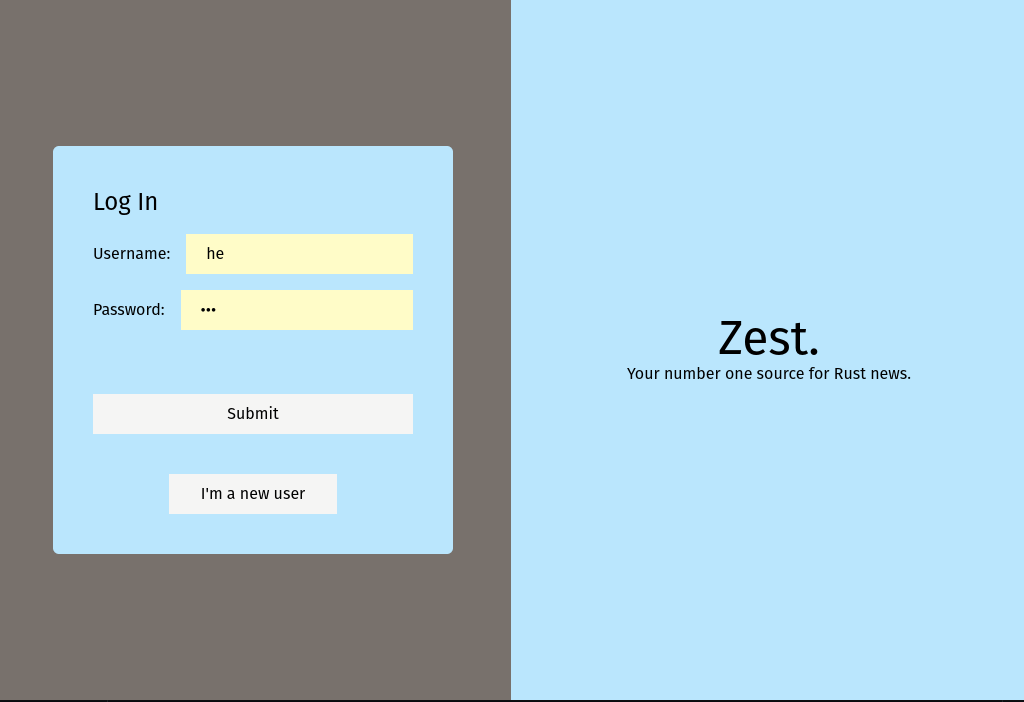
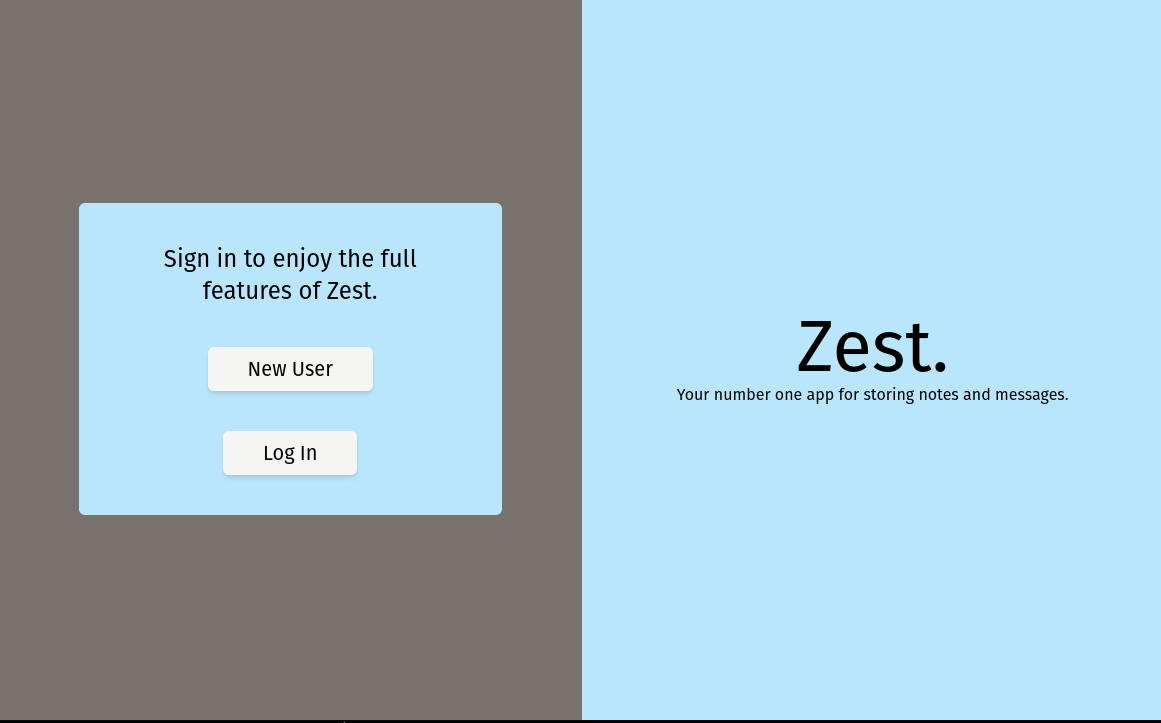
Finalised example

Changed region(s): [[0.0312, 0.2094, 0.4688, 0.8077], [0.0, 0.9872, 1.0, 1.0], [0.5625, 0.4188, 0.9375, 0.5684]]

diff --git a/src/pages/dashboard/index.tsx b/src/pages/dashboard/index.tsx
@@ -5,6 +5,8 @@ import Link from 'next/link'
 import { useRouter } from 'next/router'
 import React from 'react'
 import AuthedLayout from '../../components/AuthedLayout'
+import EditModal from '../../components/EditModal'
+import {accountStore} from '../../zustandStore'
 
 type record = {
   id: number,
@@ -14,9 +16,12 @@ type record = {
 
 export default function Home() {
 
-  let router = useRouter();
+  const router = useRouter();
+  const [data, setData] = React.useState<record[]>([]);
+  const [id, setId] = React.useState<number>(1);
+  const [vis, setVis] = React.useState<boolean>(false);
 
-  let [data, setData] = React.useState<record[]>([]);
+  const {name} = accountStore();
 
   const handleDelete = async (e: React.SyntheticEvent) => {
     e.preventDefault()
@@ -25,7 +30,6 @@ export default function Home() {
     const id = element.getAttribute("data-id");
 
     const url = `//${window.location.host}/api/notes/${id}`
-
 
     try {
       
@@ -42,6 +46,15 @@ const res = await fetch(url, {
     
       }
 
+  const handleEdit = (e: React.SyntheticEvent) => {
+    e.preventDefault()
+
+    const element = e.target as HTMLButtonElement;
+
+    // @ts-ignore
+    setId(element.getAttribute("data-id"))
+    setVis(true)
+  }
 
   React.useEffect(() => {
     const fetchData = async () => {
@@ -76,8 +89,9 @@ const res = await fetch(url, {
 
   return (
     <AuthedLayout>
-
-        <div className="bg-stone-200 shadow-md mt-10 w-[100%-2rem] md:w-4/5 min-h-[20rem] rounded-md bg-sky-300 px-10 flex flex-col items-center">
+      {vis ? 
+<EditModal vis={vis} setVis={setVis} id={id} setId={setId}/> : null}
+                <div className="bg-stone-200 shadow-md mt-10 w-[100%-2rem] md:w-4/5 min-h-[20rem] rounded-md bg-sky-300 px-10 flex flex-col items-center">
           <h1 className="mt-5 text-xl lg:text-2xl">Dashboard</h1>
 
           { data.length > 0 ? 
@@ -95,14 +109,17 @@ const res = await fetch(url, {
   
       {data.map((record: record) => (
         <tr className="border-collapse grid grid-cols-11 grid-rows-auto">
-          <td className="col-span-1">{record.id}</td>
-          <td className="col-span-6">{record.message}</td>
-          <td className="col-span-2">{record.owner}</td>
-          <td className="col-span-1"><Link href={`/dashboard/edit/${record.id}`} className="w-full px-4 bg-stone-200 hover:bg-stone-100 transition-all">Edit</Link></td>
-          <td className="col-span-1"><button data-id={record.id} onClick={handleDelete} className="w-full px-4 bg-stone-200 hover:bg-stone-100 transition-all">Delete</button></td>
+          <td className="col-span-1 text-center">{record.id}</td>
+          <td className="col-span-6 text-center">{record.message}</td>
+          <td className="col-span-2 text-center">{record.owner}</td>
+          <td className="col-span-1 flex flex-row justify-center">
+               {name == record.owner ? <button  data-id={record.id} onClick={handleEdit} className="w-full px-4 text-center bg-stone-200 hover:bg-stone-100 transition-all">Edit</button> : null }
+            </td>
+          <td className="col-span-1">
+                {name == record.owner ? <button data-id={record.id} onClick={handleDelete} className="w-full px-4 text-center bg-stone-200 hover:bg-stone-100 transition-all">Delete</button> : null }
+            </td>
         </tr>
       ))}
-    
           </table >
           
            : <p> There's no notes here :( Maybe try creating one? </p> }

diff --git a/src/components/EditModal.tsx b/src/components/EditModal.tsx
@@ -1,27 +1,57 @@
 import React from 'react'
+import {accountStore} from '../zustandStore'
 
 type props = {
-  vis: boolean
+  vis: boolean,
+  setVis: React.Dispatch<React.SetStateAction<boolean>>,
+  id: number,
+  setId: React.Dispatch<React.SetStateAction<number>>
 }
 
-export default function EditModal() {
+export default function EditModal({vis, setVis, id, setId}: props) {
+
+  const [message, setMessage] = React.useState<string>("");
+  const {name} = accountStore();
 
   const handleSubmit = async (e: React.SyntheticEvent) => {
+    e.preventDefault()
+
+    let url = `//${window.location.host}/api/notes/${id}`
     
+    const res = await fetch(url, {
+      mode: 'cors',
+      method: 'PUT',
+      headers: {
+        "Content-Type": "application/json",
+      },
+      body: JSON.stringify({
+        message: message,
+        owner: name
+      }),
+    });
+    
+  if (res.ok) {
+      window.location.reload()
+      }
   }
   
   return (
-    <div className="w-screen h-screen backdrop-blur flex flex-col items-center justify-center">
-      <div className="bg-red-300">
-        <form onSubmit={handleSubmit}>
-          <label htmlFor="message" className="flex flex-row justify-center items-center gap-10">
+    <>
+        <div className="w-screen h-screen backdrop-blur flex flex-col items-center justify-center">
+      <div className="h-2/5 min-h-[20rem] bg-red-300 w-4/5">
+        <div className="flex flex-row justify-end mr-2">
+            X
+        </div>
+        <form onSubmit={handleSubmit} className="flex flex-col justify-center items-center gap-10">
+          <label htmlFor="newMessage" className="flex flex-row justify-center items-center gap-10">
             <span> Edit message: </span>
-            <input className="px-5 py-2"></input>
+            <input className="px-5 py-2" type="text" name="newMessage" required value={message} onChange={(e) => setMessage((e.target as HTMLInputElement).value)}></input>
           </label>
 
-          <button type="submit" className="bg-stone-200 hover:bg-stone-100 transition-all">Submit</button>
+          <button type="submit" className="bg-stone-200 hover:bg-stone-100 transition-all px-5 py-2 rounded-xl">Submit</button>
       </form>
         </div>
     </div>
+  </>
   )
 }

diff --git a/src/components/AuthedLayout.tsx b/src/components/AuthedLayout.tsx
@@ -2,6 +2,7 @@ import {useRouter} from 'next/router'
 import React from 'react'
 import Head from 'next/head'
 import Link from 'next/link'
+import {accountStore} from '../zustandStore'
 
 type record = {
   id: number,
@@ -16,6 +17,8 @@ type props = {
 export default function AuthedLayout({children}: props) {
 
   let router = useRouter()
+
+  const name = accountStore((state) => state.name);
 
   const handleLogout = async (e: React.SyntheticEvent) => {
     e.preventDefault()
@@ -42,8 +45,12 @@ export default function AuthedLayout({children}: props) {
       <main className="bg-stone-300 flex flex-col items-center pb-20 min-h-screen">
         <nav className="h-10 w-full flex flex-row justify-between items-center px-5">
           <Link href="/dashboard">Zest.</Link>
-          <button onClick={(e) => handleLogout(e)}>Log Out</button>
-        </nav>
+          
+          <div className="flex flex-row justify-end gap-4">
+            <span> Welcome, {name}!</span>
+<button onClick={(e) => handleLogout(e)}>Log Out</button>
+      </div>
+              </nav>
 
         <nav className="h-10 pl-5  w-full flex flex-row justify-start gap-10 items-center px-5 border-b border-black/10">
           <div className="text-stone-400">Notes</div>

diff --git a/src/pages/dashboard/create.tsx b/src/pages/dashboard/create.tsx
@@ -4,12 +4,14 @@ import { Inter } from '@next/font/google'
 import Link from 'next/link'
 import { useRouter } from 'next/router'
 import React from 'react'
+import {accountStore} from '../../zustandStore'
 
 export default function Home() {
 
   let router = useRouter();
 
-  let [message, setMessage] = React.useState<string>("");
+  const [message, setMessage] = React.useState<string>("");
+  const {name} = accountStore();
 
   const handleLogout = async (e: React.SyntheticEvent) => {
     e.preventDefault()
@@ -36,7 +38,8 @@ export default function Home() {
         "Content-Type": "application/json"
       }, 
       body: JSON.stringify({
-        message: message
+        message: message,
+          owner: name
       })
     })
 

diff --git a/src/pages/login.tsx b/src/pages/login.tsx
@@ -5,6 +5,7 @@ import React from 'react'
 import Link from 'next/link'
 import {useRouter} from 'next/router'
 import GuestLayout from '../components/GuestLayout'
+import {accountStore} from '../zustandStore'
 
 export default function Home() {
 
@@ -13,6 +14,8 @@ export default function Home() {
   let [error, setError] = React.useState<string>("");
 
   let router = useRouter()
+
+  const {changeName} = accountStore();
   
   const handleSubmit = async (e: React.SyntheticEvent) => {
     e.preventDefault()
@@ -32,7 +35,8 @@ export default function Home() {
             password: password
           }),
         })
-
+      
+      changeName(username);
       router.push("/dashboard");
       
     } catch(e: any) {

diff --git a/src/pages/index.tsx b/src/pages/index.tsx
@@ -7,7 +7,7 @@ import GuestLayout from '../components/GuestLayout'
 export default function Home() {
   return (
     <GuestLayout>
-                    <p className="lg:text-2xl "> Sign in to enjoy the full features of Zest.</p>
+                    <p className="lg:text-2xl text-center"> Sign in to enjoy the full features of Zest.</p>
               <Link href="/register" className="text-xl bg-stone-100 hover:bg-white transition-all shadow-md px-10 py-2 rounded-md">New User</Link>
               <Link href="/login" className="text-xl bg-stone-100 hover:bg-white transition-all shadow-md px-10 py-2 rounded-md">Log In</Link>
     </GuestLayout>

diff --git a/src/pages/register.tsx b/src/pages/register.tsx
@@ -55,7 +55,7 @@ export default function Home() {
   
   return (
     <GuestLayout>
-                <form onSubmit={(e) => handleSubmit(e)} className="flex flex-col items-center justify-center gap-6 w-max max-w-[40rem] bg-sky-200 px-5 py-5 rounded-md">  
+                <form onSubmit={(e) => handleSubmit(e)} className="flex flex-col items-center justify-center gap-4 w-max max-w-[40rem] bg-sky-200 px-5 py-5 rounded-md">  
               <p className="text-2xl">Register</p>
               <label htmlFor="username" className="flex flex-row items-center gap-4 w-[20rem]">
                 <span>Username:</span>

diff --git a/src/components/GuestLayout.tsx b/src/components/GuestLayout.tsx
@@ -15,7 +15,7 @@ return (
       </Head>
 <main className="bg-stone-300 w-screen h-screen grid lg:grid-cols-2 lg:grid-rows-1 ">
         <div className="col-span-1 flex flex-col items-center justify-center h-full w-full p-20 bg-stone-500">
-          <div className="flex flex-col items-center justify-center gap-10 bg-sky-200 p-10 rounded-md">  
+          <div className="flex flex-col items-center justify-center gap-4 bg-sky-200 p-10 rounded-md">  
             {children}
                </div>
         </div>

diff --git a/src/zustandStore.ts b/src/zustandStore.ts
@@ -1,0 +1,18 @@
+import { create } from 'zustand'
+import {persist, createJSONStorage} from 'zustand/middleware'
+
+interface AcctState {
+	name: string,
+	changeName: (to: string) => void
+}
+
+export const accountStore = create<AcctState>()(persist((set, get) => ({
+	name: "",
+	changeName: (to) => set({name: to}),
+	}),
+	{name: 'name',
+	storage: createJSONStorage(() => sessionStorage),
+}
+
+)
+)

diff --git a/backend/src/router.rs b/backend/src/router.rs
@@ -172,7 +172,7 @@ pub async fn forgot_password(
             .bind(hashed_password)
             .bind(email_recipient.clone())
             .execute(&state.postgres)
-            .await;
+            .await.expect("Had an error resetting password");
 
     let credentials = Credentials::new(state.smtp_email, state.smtp_password);
 
@@ -260,7 +260,7 @@ pub async fn create_record(
 ) -> Response {
     let query = sqlx::query("INSERT INTO notes (message, owner) VALUES ($1, $2)")
         .bind(request.message)
-        .bind("he".to_string())
+        .bind(request.owner)
         .execute(&state.postgres);
 
     match query.await {
@@ -278,9 +278,11 @@ pub async fn edit_record(
     Path(id): Path<i32>,
     Json(request): Json<RecordRequest>,
 ) -> Response {
-    let query = sqlx::query("UPDATE notes SET message = $1 WHERE id = $2")
+    
+    let query = sqlx::query("UPDATE notes SET message = $1 WHERE id = $2 AND owner = $3")
         .bind(request.message)
         .bind(id)
+        .bind(request.owner)
         .execute(&state.postgres);
 
     match query.await {

diff --git a/README.md b/README.md
@@ -6,7 +6,7 @@ We will be building a fully working login portal with a dashboard.
 
 ### Preview
 
-![](./Screenshot1.png)
+![](./Screenshot3.png)
 
 ![](./Screenshot2.png)
 
